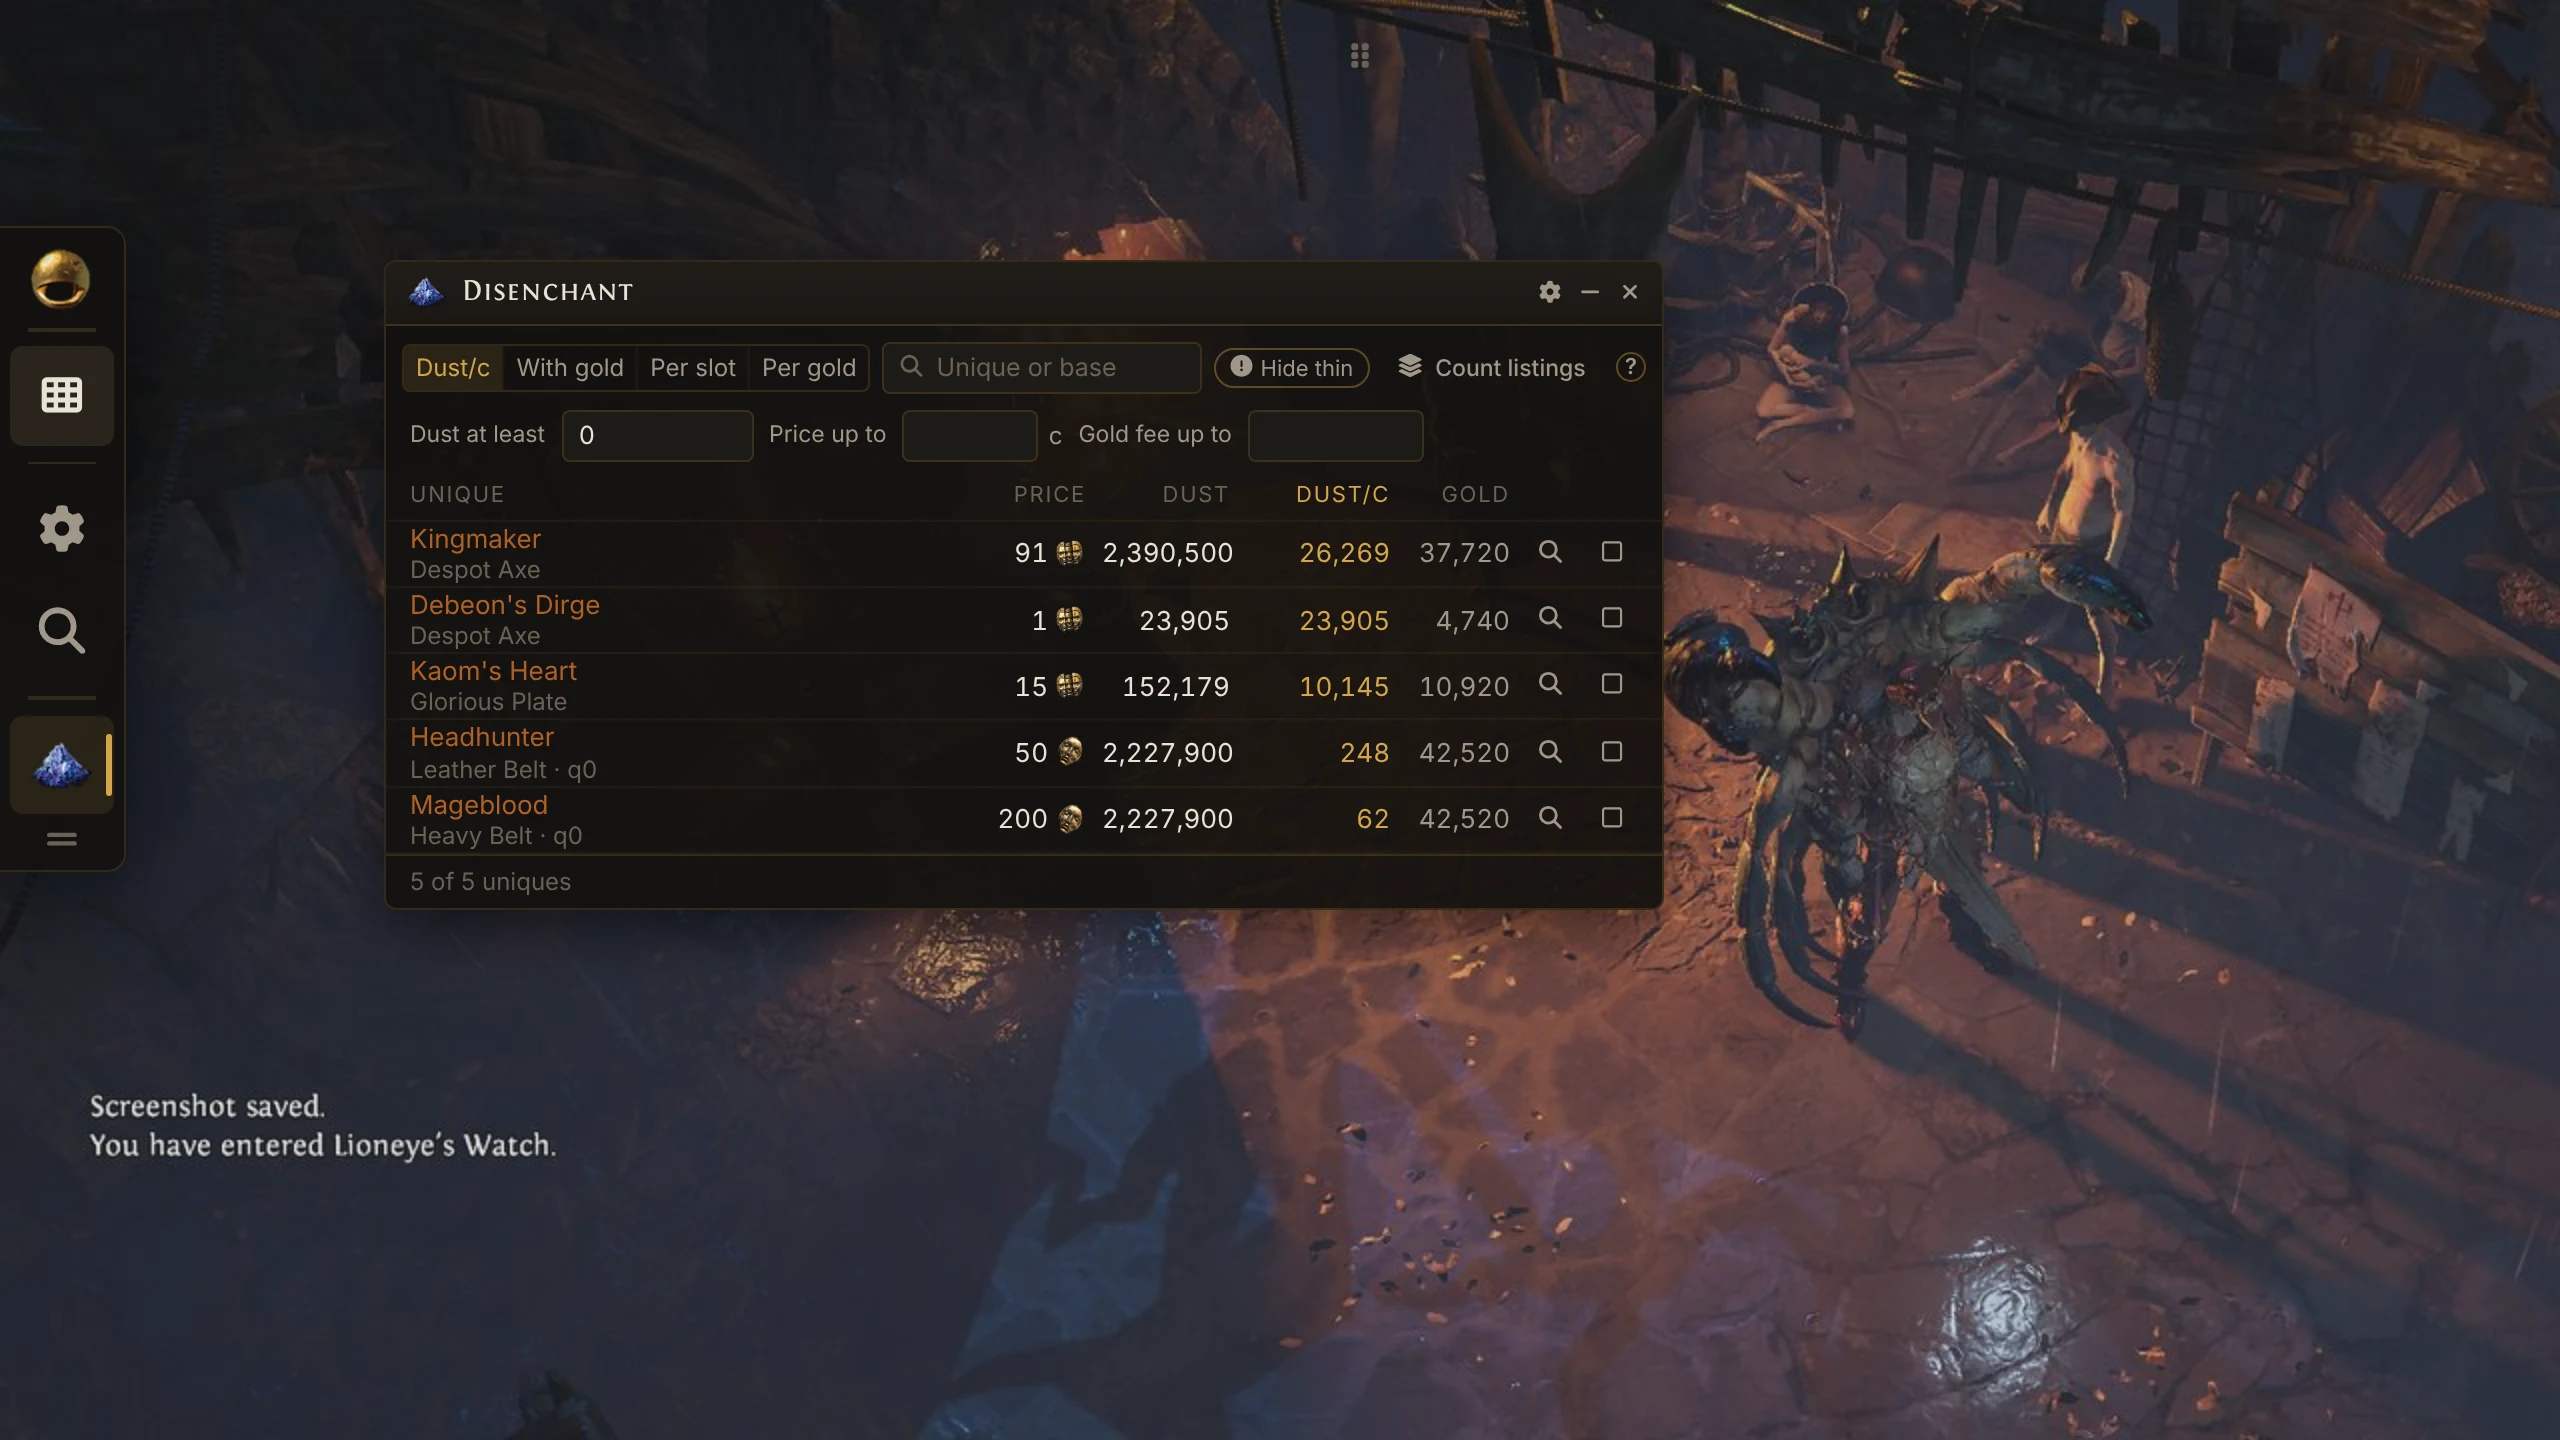
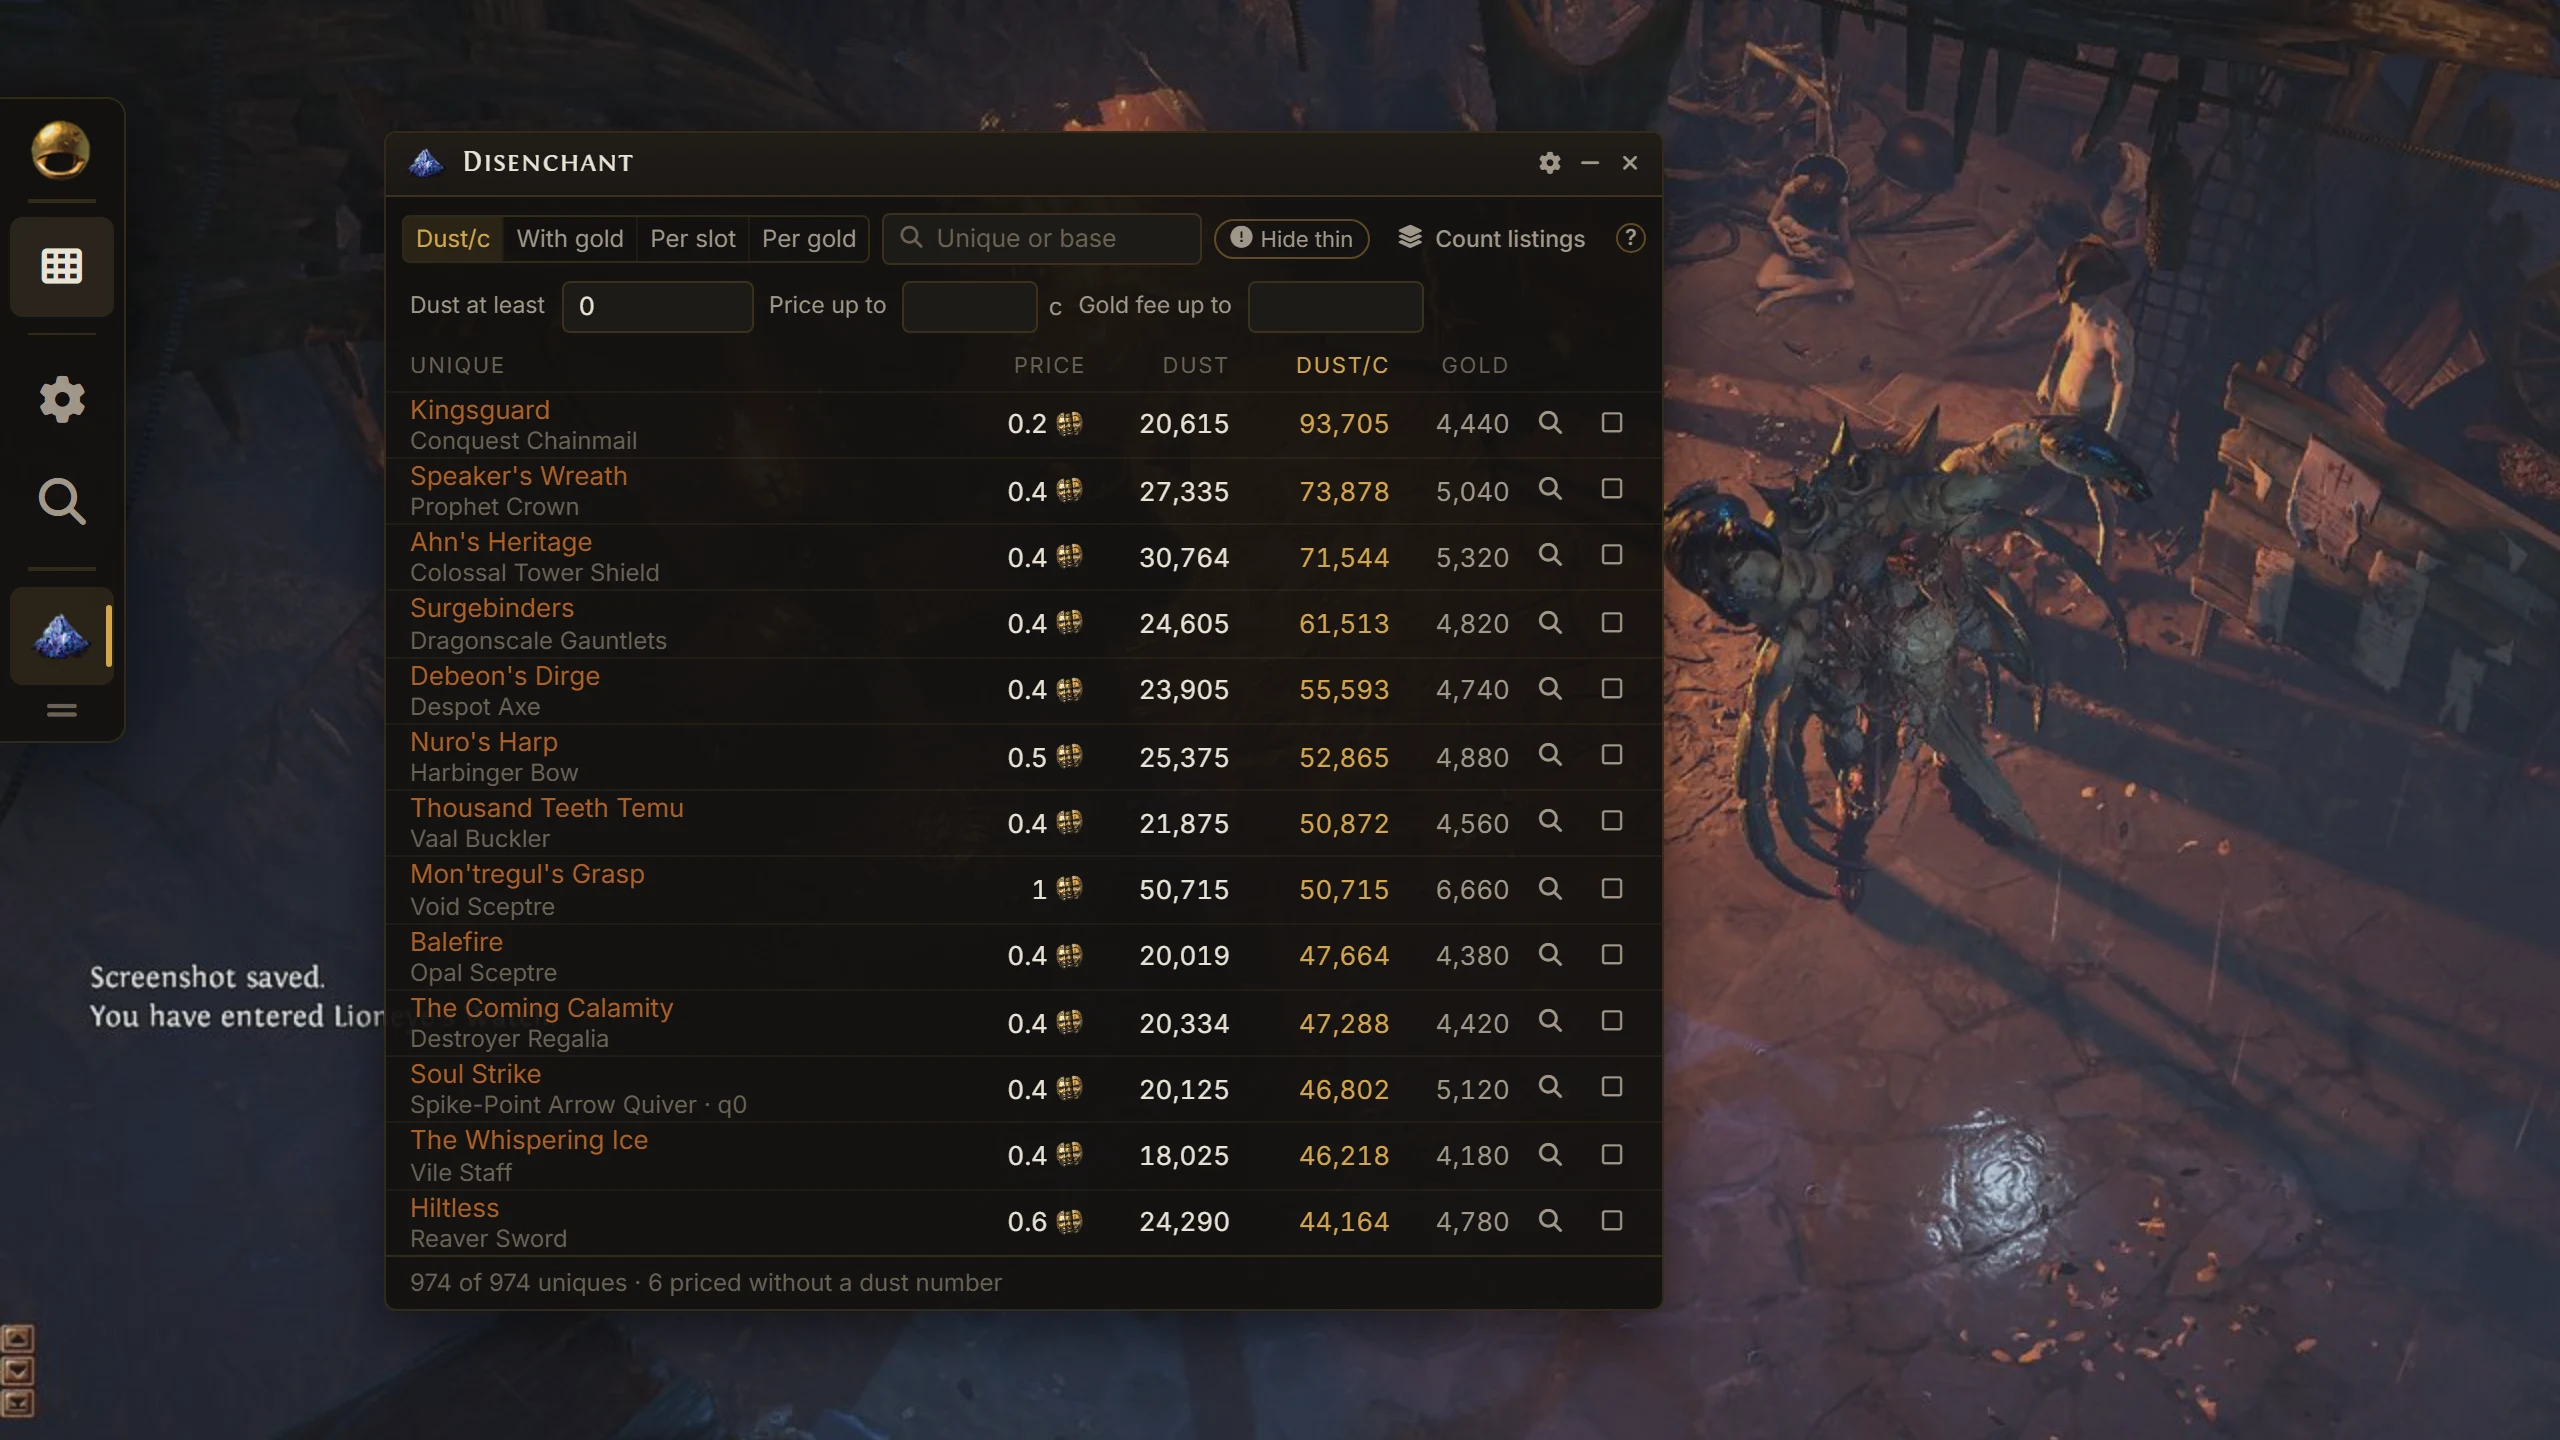
Landing: Disenchant shot from live prices
Claude-Session: https://claude.ai/code/session_01HX6DZRgbTiEaTThU3qcHa3

diff --git a/testing/e2e/landing-highlights.spec.ts b/testing/e2e/landing-highlights.spec.ts
@@ -534,7 +534,7 @@ test('market: the flips window', async ({ overlay }) => {
 
 test('market: uniques worth disenchanting', async ({ overlay }) => {
   await liveNinja(overlay.page)
-  await overlay.boot({ overlayActive: true, widgets: [{ wmType: 'woke-disenchant', wmWants: 'show', anchor: { pos: 'tl', x: 8, y: 8 } } as never] })
+  await overlay.boot({ overlayActive: true, widgets: [{ wmType: 'woke-disenchant', wmWants: 'show', anchor: { pos: 'tl', x: 8, y: 8 }, wokeSizes: { main: { h: 590 } } } as never] })
   await backdrop(overlay, 'frames/town.jpg')
   const panel = overlay.widget('woke-disenchant')
   await expect(panel.locator('.w-row:not(.w-row--head)').first()).toBeVisible({ timeout: 15_000 })
